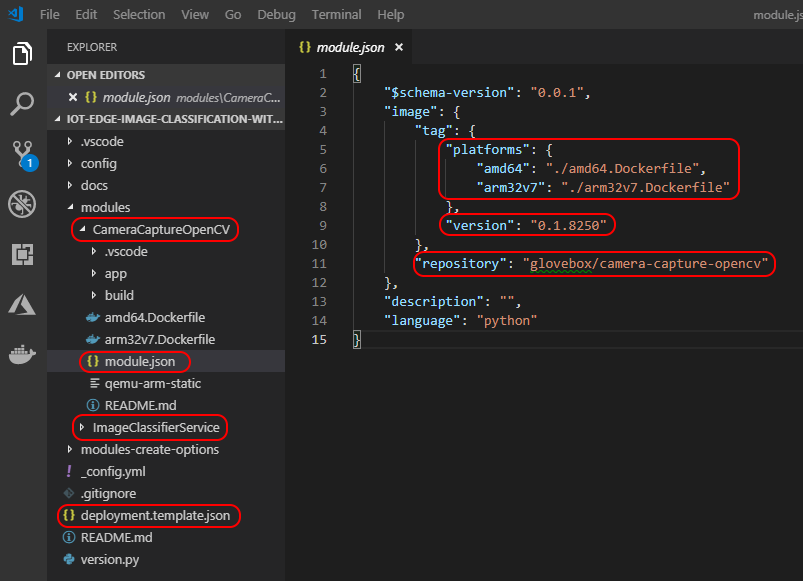
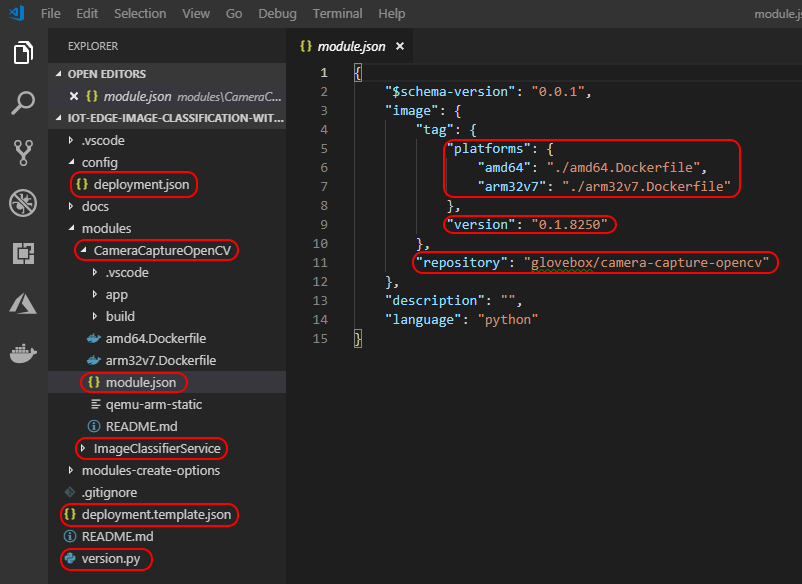
doco

diff --git a/README.md b/README.md
@@ -17,8 +17,9 @@
     - [3.1. Creating the Fruit Classification Model](#31-creating-the-fruit-classification-model)
     - [3.2. Exporting an Azure Custom Vision Model](#32-exporting-an-azure-custom-vision-model)
     - [3.3. Azure Speech Services](#33-azure-speech-services)
-- [4. How to install and run the solution](#4-how-to-install-and-run-the-solution)
-    - [Understanding the Project Structure](#understanding-the-project-structure)
+- [4. How to install, build and deploy the solution](#4-how-to-install-build-and-deploy-the-solution)
+    - [4.1. Understanding the Project Structure](#41-understanding-the-project-structure)
+    - [Building the Solution](#building-the-solution)
 
 <!-- /TOC -->
 
@@ -120,7 +121,7 @@ Follow these steps to export your Custom Vision project model.
 
 [Azure Speech services](https://azure.microsoft.com/en-au/services/cognitive-services/speech-services/) supports both speech to text and text to speech. For this solution, I'm using the text to speech F0 free tier which is limited to 5 million characters per month. You'll need to create the service for your unique key to use for this app.
 
-# 4. How to install and run the solution
+# 4. How to install, build and deploy the solution
 
 1. Clone this GitHub
 
@@ -138,17 +139,71 @@ Follow these steps to export your Custom Vision project model.
     2. The following Visual Studio Code Extensions
         - [Azure IoT Edge](https://marketplace.visualstudio.com/items?itemName=vsciot-vscode.azure-iot-edge)
         - [JSON Tools](https://marketplace.visualstudio.com/items?itemName=eriklynd.json-tools) useful for modifying the "Create Options" for a module.
+    3. [Docker Community Edition](https://docs.docker.com/install/) on your development machine
+    4. If you plan to target Raspberry Pi 2, 3, or 3+ and you are developing on Linux you need to enable cross compiling from Intel to arm32v7. After installing Docker run the following command. See [How to Build ARM Docker Images on Intel host](http://www.hotblackrobotics.com/en/blog/2018/01/22/docker-images-arm/) for more details.
+        ```bash
+        docker run --rm --privileged multiarch/qemu-user-static:register --reset
+        ``` 
+    5. Setup a local Docker registry for prototyping and testing purposes. It will significantly turn around time for coding, deploying and testing.
+
+        ```bash
+        docker run -d -p 5000:5000 --restart always --name registry registry:2
+        ```
 
 4. Open the IoT Edge solution you cloned to your local machine and expand the modules section.
 
-## Understanding the Project Structure
+## 4.1. Understanding the Project Structure
 
 The following describe the highlighted sections of the project.
 
 1. There are two modules: CameraCaptureOpenCV and ImageClassifierService.
 
-2. The module.json file defines the Docker build process, the module version, and your docker repository.
+2. The module.json file defines the Docker build process, the module version, and your docker repository. An update to the module version number is what triggers the Azure IoT Edge runtime to pull down a new version on a module.
 
-3. The deployment.template.json file is used by the build process to create the [Deployment Manifest](https://docs.microsoft.com/en-us/azure/iot-edge/module-composition).
+3. The deployment.template.json file is used by the build process, it describes what modules will form the solution, message routes and what version of the IoT Edge runtime components the solution targets.
+
+4. The deployment.json file is generated from the deployment.template.json and is the [Deployment Manifest](https://docs.microsoft.com/en-us/azure/iot-edge/module-composition)
+
+5. The version.py is a helper app you can run on your development machine that updates the version number of each module. Useful as a change in the version number is what triggers Azure IoT Edge runtime to pull the updated module and it is easy to forgot to change the version number:)
 
 ![visual studio code project structure](docs/visual-studio-code-open-project.png)
+
+## Building the Solution
+
+You need to ensure the image you plan to build matches the target processor architecture specified in the deployment.template.json file.
+
+1. Specify your Docker repository in the module.json file for each module. If pushing the image to a local Docker repository the specify localhost:5000. For example:-
+
+    ```json
+    "repository": "localhost:5000/camera-capture-opencv"
+    ```
+
+2. Confirm processor architecture you plan to build for.
+    1. Open the **deployment.template.json** file
+    2. Under settings for the modules there is an image property that ends with **amd64**. This maps to the Platforms collecting in the **module.json** file for each module, which in turn maps to the Dockerfile to use for the build process. So leave as **amd64** or change to **arm32v7** depending on the platform you are targeting.
+
+    ```json
+    "image": "${MODULES.ImageClassifierService.amd64}"
+    ```
+3. Next Build and Push the solution to Docker by right mouse clicking the deployment.template.json file and select "**Build and Push IoT Edge Solution**". The first time you build will likely be slow as Docker needs to pull the base layers. If you are cross compiling to arm32v7 then the first time it will be very slow as OpenCV and Python requirements need to be compiled. On a fast Intel i7-8750H processor cross compiling will take approximately 40 minutes.
+
+    ![docker build and push](docs/solution-build-push-docker.png)
+
+4. Finally when the Docker Build and Push process has completed select the Azure IoT Hub device you want to deploy the solution to. Right mouse click the deployment.json file located in the config folder and select the target device.
+
+    ![deploy to device](docs/deploy-to-device.png)
+
+5. Monitor the IoT Edge deployment. Depending on the device and network speed the IoT Edge Runtime will now pull and then start the module images. You can monitor with the following command.
+
+    ```bash
+    watch iotedge list
+    ```
+6. You can also monitor the state of the Azure IoT Edge module from the Azure IoT Hub blade on the [Azure Portal](http://portal.azure.com).
+
+    ![azure iot edge devices](docs/azure-iotedge-monitoring.png)
+
+    Click on the device from the Azure IoT Edge blade to view more details about the modules  running on the device.
+
+    ![azure iot edge device details](docs/azure-portal-iotedge-device-details.png)
+
+Congratulations you have deployed your first Azure IoT Edge Solution
